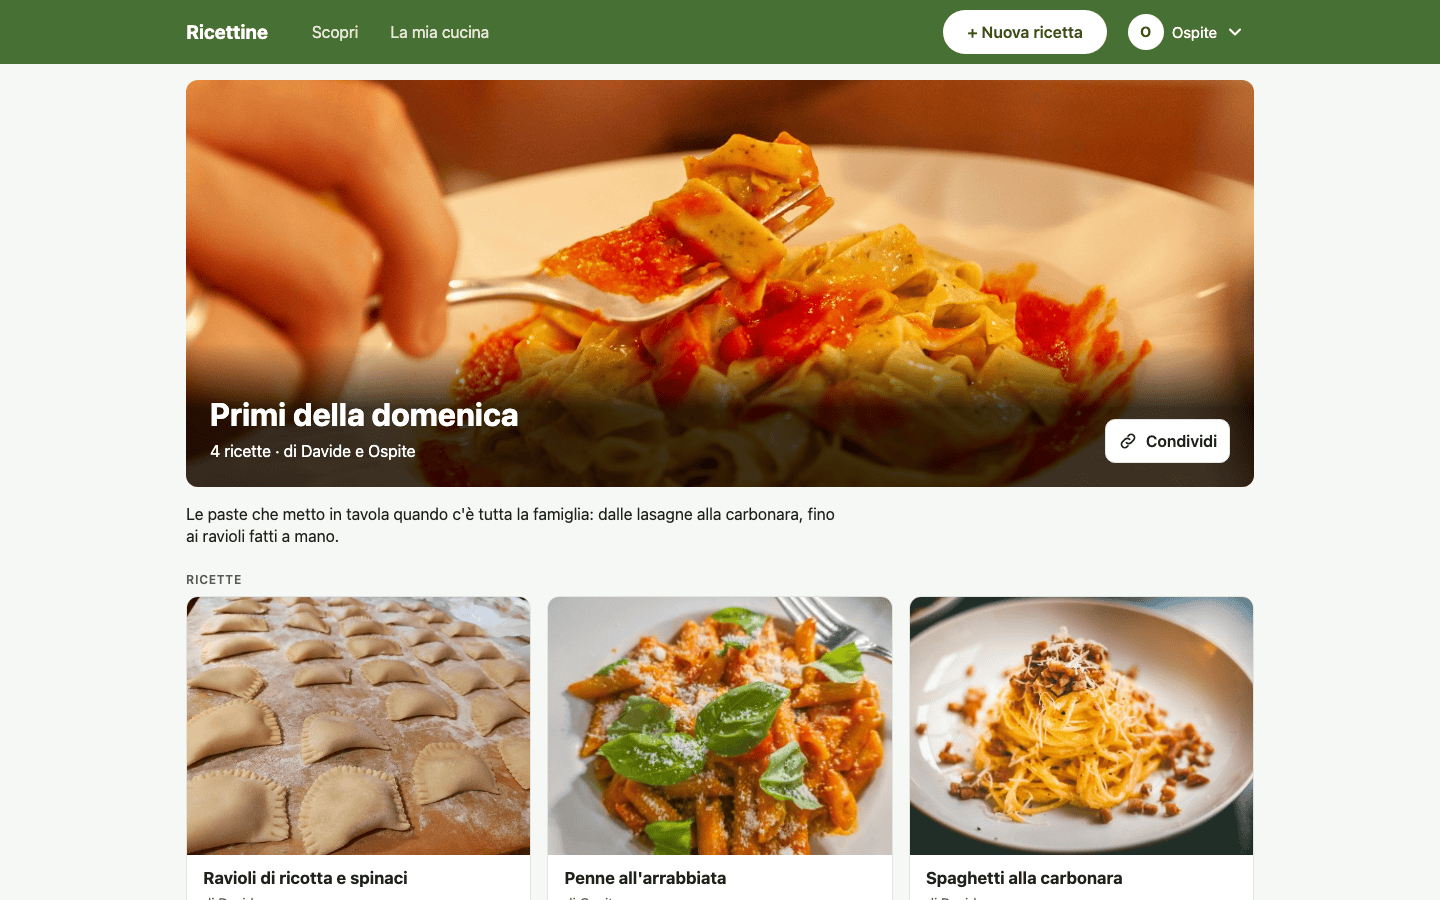
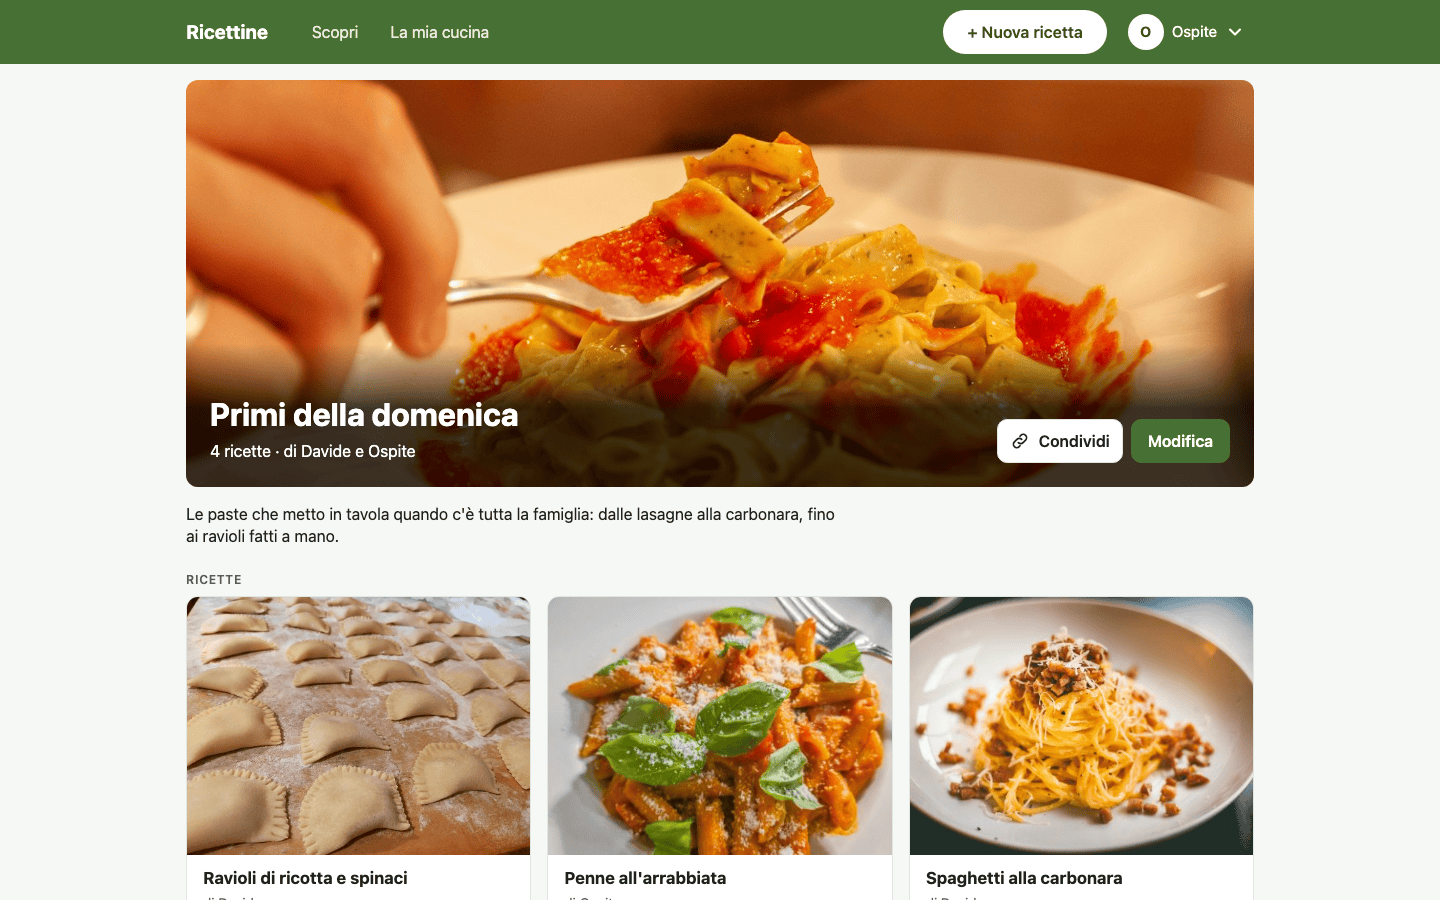
Screenshots render the main-site UI over the demo data

diff --git a/e2e/screenshots/screenshots.spec.ts b/e2e/screenshots/screenshots.spec.ts
@@ -2,12 +2,34 @@ import { expect, test, type Locator, type Page } from '@playwright/test';
 import { fileURLToPath } from 'node:url';
 import path from 'node:path';
 
+const writes: string[] = [];
+
 // The README/docs images, taken on the demo site (see scripts/screenshots.sh). The language and theme are set the
 // way the app keeps them (localStorage `ricettine.lang` / `ricettine.theme`), so each shot is explicit.
 const OUT = process.env.SCREENSHOT_DIR ?? path.resolve(path.dirname(fileURLToPath(import.meta.url)), '../../docs/images');
 
 
+/**
+ * The images show the real main-site UI over the seeded demo data: sign in once through the demo session (the
+ * requests carry the demo site header, so the data is the demo database), then answer /api/setup/status with
+ * `demo: false`, so the SPA drops the demo banner, notices and read-only restrictions. The shots only read: any
+ * write request fails the test.
+ */
 async function prepare(page: Page, lang: 'it' | 'en', theme: 'light' | 'dark') {
+  const api = page.context().request;
+  await api.get('/api/me'); // 401, but sets the XSRF cookie
+  const cookies = await page.context().cookies();
+  const xsrf = cookies.find((c) => c.name === 'XSRF-TOKEN')?.value ?? '';
+  const session = await api.post('/api/demo/session', { headers: { 'X-XSRF-TOKEN': xsrf } });
+  expect(session.ok()).toBe(true);
+  await page.route('**/api/setup/status', async (route) => {
+    const res = await route.fetch();
+    const body = await res.json();
+    await route.fulfill({ response: res, json: { ...body, demo: false, demoUrl: null } });
+  });
+  page.on('request', (req) => {
+    if (['POST', 'PUT', 'PATCH', 'DELETE'].includes(req.method())) writes.push(`${req.method()} ${req.url()}`);
+  });
   await page.addInitScript(
     ([l, t]) => {
       localStorage.setItem('ricettine.lang', l);
@@ -31,19 +53,20 @@ async function settle(page: Page) {
   await page.waitForTimeout(500);
 }
 
-/** The demo banner is left out of every image; it must exist first, so a selector change cannot silently bring it back. */
-async function hideDemoBanner(page: Page) {
-  const banner = page.locator('app-demo-banner');
-  await expect(banner).toBeVisible();
-  await page.addStyleTag({ content: 'app-demo-banner { display: none !important; }' });
-  await expect(banner).toBeHidden();
-  await expect(page.getByText(/^(Questa è una demo|This is a demo)/)).toBeHidden();
+/** Nothing of the demo mode may show: no banner, notice or toast, and no "demo" in the app's own chrome. */
+async function assertMainSiteUi(page: Page) {
+  // the banner's host element is always in the shell; it must render nothing
+  await expect(page.locator('app-demo-banner')).toHaveText('');
+  for (const sel of ['.demo-notice', '.demo-toast']) await expect(page.locator(sel)).toHaveCount(0);
+  await expect(page.locator('header, nav, [role="status"], [role="alert"]').filter({ hasText: /demo/i })).toHaveCount(0);
+  await expect(page.getByText(/non salvato|not saved/i)).toHaveCount(0);
+  expect(writes).toEqual([]);
 }
 
 /** `endAfter`: cut the image just below this element, so it ends on a whole element (not mid-field). */
 async function shoot(page: Page, name: string, endAfter?: Locator) {
   await settle(page);
-  await hideDemoBanner(page);
+  await assertMainSiteUi(page);
   let clip: { x: number; y: number; width: number; height: number } | undefined;
   if (endAfter) {
     const box = await endAfter.boundingBox();
@@ -68,6 +91,8 @@ async function openEditor(page: Page) {
   await page.getByRole('link', { name: /^(Edit|Modifica)$/ }).or(page.getByRole('menuitem', { name: /^(Edit|Modifica)$/ })).click();
   await expect(page).toHaveURL(/\/recipes\/[^/]+\/edit$/);
   await expect(page.getByLabel(/^(Title|Titolo)$/)).toHaveValue("Penne all'arrabbiata");
+  // the main-site editor, not the demo's local one: its normal actions are there
+  await expect(page.getByRole('button', { name: /^(More actions|Altre azioni)$/ }).or(page.getByRole('link', { name: /^(Preview|Anteprima)$/ })).first()).toBeVisible();
 }
 
 test.describe('desktop', { tag: '@desktop' }, () => {
